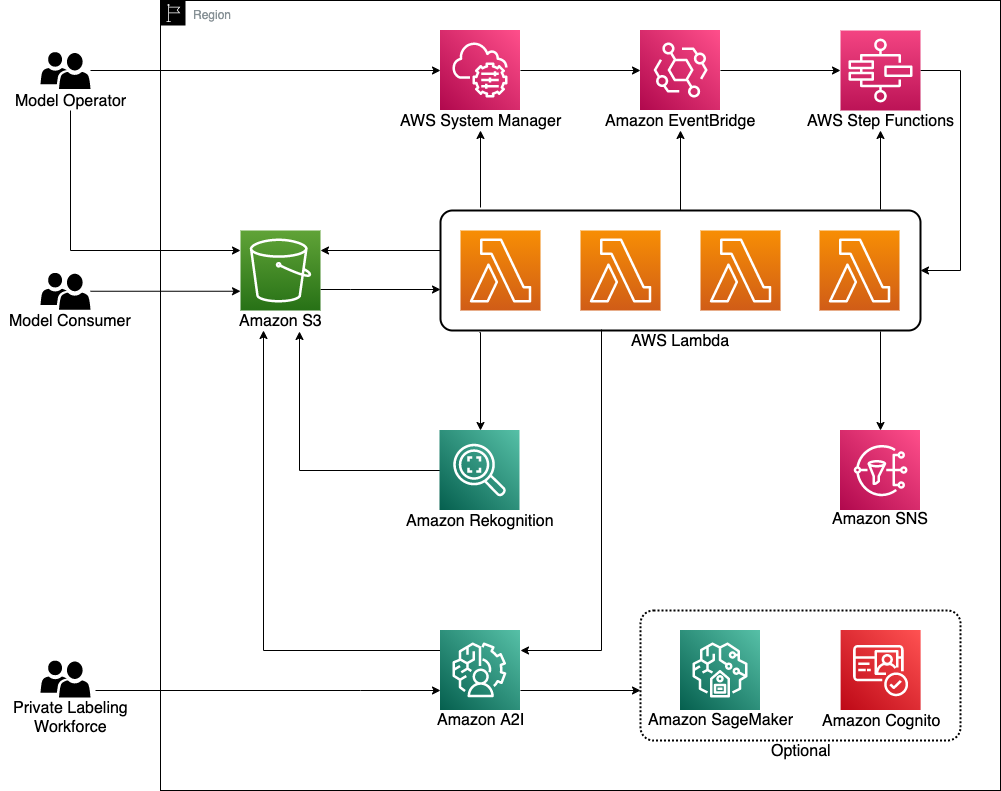
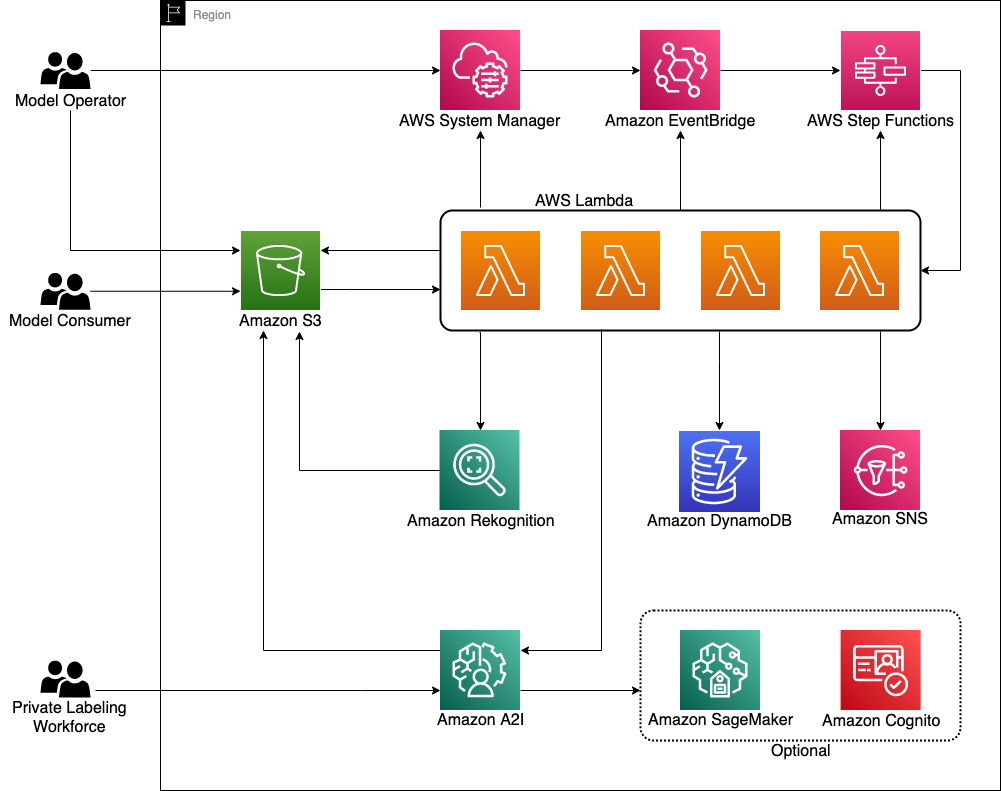
Add DynamoDB database to log all Rekongition and A2I events for offline analytics use

diff --git a/lambda/a2i_create_humanloop.py b/lambda/a2i_create_humanloop.py
@@ -1,14 +1,36 @@
 import json
 import os
 import boto3
-import uuid
-sns = boto3.client('sns')
-a2i = boto3.client('sagemaker-a2i-runtime')
 ssm = boto3.client('ssm')
-def get_parameter(parameter_name):
-    response = ssm.get_parameter(Name=parameter_name)
-    parameter_value = json.loads(response['Parameter']['Value'])
-    return parameter_value
+sns = boto3.client('sns')
+rekognition = boto3.client('rekognition')
+dynamodb = boto3.client('dynamodb')
+def get_parameters():
+    response = ssm.get_parameters_by_path(
+        Path=os.environ['parameter_store_path'],
+        Recursive=True
+    )
+    parameter_store = {}
+    for parameter in response['Parameters']:
+        parameter_name = (parameter['Name'].split('/'))[-1]
+        parameter_store[parameter_name] = parameter['Value']
+    return parameter_store
+def store_detection_results(dynamodb_table, detectlabel_request_id, detectlabel_date, s3_bucket_name, s3_object_key, s3_object_eTag, project_version, detected_label, confidence_level, minimum_confidence_level, A2I):
+    response = dynamodb.put_item(
+        TableName=dynamodb_table,
+        Item={
+            'DetectLabelRequestId': {'S':detectlabel_request_id},
+            'DetectLabelDate': {'S':detectlabel_date},
+            'S3Bucket': {'S':s3_bucket_name},
+            'S3ObjectKey': {'S':s3_object_key},
+            'S3ObjectEtag': {'S':s3_object_eTag},
+            'ProjectVersionArn': {'S':project_version},
+            'DectectedLabel': {'S':detected_label},
+            'DetectedConfidenceLevel': {'N':str(confidence_level)},
+            'MinimumConfidenceLevel': {'N':str(minimum_confidence_level)},
+            'A2IEnabled': {'BOOL':A2I}
+        }
+    )
 def publish_message(sns_subject, sns_message, topic_arn):
     response = sns.publish(
         TopicArn=topic_arn,
@@ -16,20 +38,35 @@ def publish_message(sns_subject, sns_message, topic_arn):
         Subject=sns_subject
     )
 def handler(event, context):
-    parameter_name = os.environ['parameter_store_path'] + 'For-System-Use-Only'
-    sys_vars = get_parameter(parameter_name)
-    response = a2i.start_human_loop(
-        HumanLoopName = str(uuid.uuid4()),
-        FlowDefinitionArn = sys_vars['flow_definition_arn'],
-        HumanLoopInput = {
-            'InputContent': json.dumps({
-                'initialValue': event['message']['CustomLabels'][0]['Confidence'],
-                'taskObject': 's3://'+event['message']['s3event']['s3']['bucket']['name']+'/'+event['message']['s3event']['s3']['object']['key']
-            })
-        }
+    parameter_store = get_parameters()
+    a2i = True if parameter_store['Enable-A2I-Workflow'].lower().capitalize() == 'True' else False
+    sys_vars = json.loads(parameter_store['For-System-Use-Only'])
+    project_version = sys_vars['rekognition_project_version_arn']
+    dynamodb_table = sys_vars['dynamodb_table']
+    minimum_confidence_level=parameter_store['Minimum-Label-Detection-Confidence']
+    s3_bucket_name=event['s3event']['s3']['bucket']['name']
+    s3_object_key=event['s3event']['s3']['object']['key']
+    s3_object_eTag=event['s3event']['s3']['object']['eTag']
+    s3_event_time=event['s3event']['eventTime']
+    response = rekognition.detect_custom_labels(
+        ProjectVersionArn=project_version,
+        Image={
+            'S3Object': {
+                'Bucket': s3_bucket_name,
+                'Name': s3_object_key
+            }
+        },
+        MaxResults=1,
+        MinConfidence=0
     )
-    response['s3event'] = event['message']['s3event']
-    publish_message('A2I Human Loop Initiated', json.dumps(response), sys_vars['sns-topic'])
+    confidence_level = response['CustomLabels'][0]['Confidence']
+    detected_label = response['CustomLabels'][0]['Name']
+    detectlabel_request_id = response['ResponseMetadata']['RequestId']
+    if confidence_level < float(parameter_store['Minimum-Label-Detection-Confidence']):
+        response['A2I'] = True if a2i else False
+    store_detection_results(dynamodb_table, detectlabel_request_id, s3_event_time, s3_bucket_name, s3_object_key, s3_object_eTag, project_version, detected_label, confidence_level, minimum_confidence_level, a2i)
+    publish_message('Rekgnition Custom Labels Detection Invoked', json.dumps(response), sys_vars['sns-topic'])
+    response['s3event'] = event['s3event']
     return {
         'message': response
     }

diff --git a/lambda/rekognition-detect-label.py b/lambda/rekognition-detect-label.py
@@ -1,10 +1,10 @@
 import json
 import os
 import boto3
-import uuid
 ssm = boto3.client('ssm')
 sns = boto3.client('sns')
 rekognition = boto3.client('rekognition')
+dynamodb = boto3.client('dynamodb')
 def get_parameters():
     response = ssm.get_parameters_by_path(
         Path=os.environ['parameter_store_path'],
@@ -15,6 +15,22 @@ def get_parameters():
         parameter_name = (parameter['Name'].split('/'))[-1]
         parameter_store[parameter_name] = parameter['Value']
     return parameter_store
+def store_detection_results(dynamodb_table, detectlabel_request_id, detectlabel_date, s3_bucket_name, s3_object_key, s3_object_eTag, project_version, detected_label, confidence_level, minimum_confidence_level, A2I):
+    response = dynamodb.put_item(
+        TableName=dynamodb_table,
+        Item={
+            'DetectLabelRequestId': {'S':detectlabel_request_id},
+            'DetectLabelDate': {'S':detectlabel_date},
+            'S3Bucket': {'S':s3_bucket_name},
+            'S3ObjectKey': {'S':s3_object_key},
+            'S3ObjectEtag': {'S':s3_object_eTag},
+            'ProjectVersionArn': {'S':project_version},
+            'DectectedLabel': {'S':detected_label},
+            'DetectedConfidenceLevel': {'N':str(confidence_level)},
+            'MinimumConfidenceLevel': {'N':str(minimum_confidence_level)},
+            'A2IEnabled': {'BOOL':A2I}
+        }
+    )
 def publish_message(sns_subject, sns_message, topic_arn):
     response = sns.publish(
         TopicArn=topic_arn,
@@ -23,25 +39,33 @@ def publish_message(sns_subject, sns_message, topic_arn):
     )
 def handler(event, context):
     parameter_store = get_parameters()
+    a2i = True if parameter_store['Enable-A2I-Workflow'].lower().capitalize() == 'True' else False
     sys_vars = json.loads(parameter_store['For-System-Use-Only'])
+    project_version = sys_vars['rekognition_project_version_arn']
+    dynamodb_table = sys_vars['dynamodb_table']
+    minimum_confidence_level=parameter_store['Minimum-Label-Detection-Confidence']
+    s3_bucket_name=event['s3event']['s3']['bucket']['name']
+    s3_object_key=event['s3event']['s3']['object']['key']
+    s3_object_eTag=event['s3event']['s3']['object']['eTag']
+    s3_event_time=event['s3event']['eventTime']
     response = rekognition.detect_custom_labels(
-        ProjectVersionArn=sys_vars['rekognition_project_version_arn'],
+        ProjectVersionArn=project_version,
         Image={
             'S3Object': {
-                'Bucket': event['s3event']['s3']['bucket']['name'],
-                'Name': event['s3event']['s3']['object']['key']
+                'Bucket': s3_bucket_name,
+                'Name': s3_object_key
             }
         },
         MaxResults=1,
         MinConfidence=0
     )
     confidence_level = response['CustomLabels'][0]['Confidence']
-    publish_message('Rekgnition Custom Labels Detection Invoked', json.dumps(response), sys_vars['sns-topic'])
+    detected_label = response['CustomLabels'][0]['Name']
+    detectlabel_request_id = response['ResponseMetadata']['RequestId']
     if confidence_level < float(parameter_store['Minimum-Label-Detection-Confidence']):
-        if parameter_store['Enable-A2I-Workflow'] in ['True', 'true', 'TRUE']:
-            response['A2I'] = True
-        else:
-            response['A2I'] = False
+        response['A2I'] = True if a2i else False
+    store_detection_results(dynamodb_table, detectlabel_request_id, s3_event_time, s3_bucket_name, s3_object_key, s3_object_eTag, project_version, detected_label, confidence_level, minimum_confidence_level, a2i)
+    publish_message('Rekgnition Custom Labels Detection Invoked', json.dumps(response), sys_vars['sns-topic'])
     response['s3event'] = event['s3event']
     return {
         'message': response

diff --git a/lambda/a2i-human-loop.py b/lambda/a2i-human-loop.py
@@ -4,18 +4,40 @@ import boto3
 s3 = boto3.client('s3')
 s3_resource = boto3.resource('s3')
 ssm = boto3.client('ssm')
+dynamodb = boto3.client('dynamodb')
 def get_parameter(parameter_name):
     response = ssm.get_parameter(Name=parameter_name)
     return json.loads(response['Parameter']['Value'])
+def append_human_results(dynamodb_table, detectlabel_request_id, label, new_key, submission_time):
+    response = dynamodb.update_item(
+        TableName=dynamodb_table,
+        Key={
+            'DetectLabelRequestId': {'S':detectlabel_request_id}
+        },
+        ExpressionAttributeNames={
+            '#HL':'HumanLabel',
+            '#S3':'CopiedS3ObjectKey',
+            '#AT': 'HumanLableCompletedDate'
+        },
+        ExpressionAttributeValues={
+            ':h': {'S':label},
+            ':s': {'S':new_key},
+            ':a': {'S':submission_time}
+        },
+        UpdateExpression='SET #HL=:h, #S3=:s, #AT=:a'
+    )
 def handler(event, context):
     parameter_name = os.environ['parameter_store_path'] + 'For-System-Use-Only'
     sys_vars = get_parameter(parameter_name)
+    dynamodb_table = sys_vars['dynamodb_table']
     bucket = event['s3event']['s3']['bucket']['name']
     key = event['s3event']['s3']['object']['key']
     response = s3.get_object(Bucket = bucket, Key = key)
     response = json.loads(response['Body'].read())
+    new_key=''
     if len(response['humanAnswers']) != 0:
         label = response['humanAnswers'][0]['answerContent']['crowd-image-classifier']['label']
+        submission_time = response['humanAnswers'][0]['submissionTime']
         if label != 'None of the Above':
             taskObject = response['inputContent']['taskObject']
             bucket, key = taskObject.replace("s3://", "").split("/", 1)
@@ -23,6 +45,8 @@ def handler(event, context):
             image_name = 'humanLoopName-' + response['humanLoopName'] + '-' + taskObject.split('/')[-1]
             new_key = 'images_labeled_by_folder/' + label + '/' + image_name
             s3_resource.meta.client.copy(copy_source, sys_vars['s3_bucket'], new_key)
+    detectlabel_request_id=response['inputContent']['detectLabelRequestId']
+    append_human_results(dynamodb_table, detectlabel_request_id, label, new_key, submission_time)
     response['s3event'] = event['s3event']
     return {
         'message': response

diff --git a/README.md b/README.md
@@ -50,6 +50,8 @@ We use Parameter Store in two different ways. Firstly, we provide a set of seven
 
 We use two EventBridge rules to initiate Step Functions state machine runs. The first rule is based on a Systems Manager event pattern. The Systems Manager rule is triggered by changes to the Parameter Store and initiates the state machine to invoke a Lambda function to apply changes to the impacted resources. The second rule is a schedule rule. The schedule rule is triggered periodically to initiate the state machine to invoke a Lambda function to check for new model training.
 
+We use an [Amazon DynamoDB](https://aws.amazon.com/dynamodb/) NoSQL database to log all Rekognition and A2I events and results for performance analysis and model drift detection. Although we did NOT include an analytics feature in this example,  you can quickly deploy [Amazon QuickSight](https://aws.amazon.com/quicksight/) with the DynamoDB table as your source to visualize the performance of your model over time.
+
 We use a Step Functions state machine to orchestrate the ML workflow. The state machine initiates different processes based on events received from EventBridge and responses from Lambda. In addition, the state machine uses an internal process such as Wait to wait for model training and deployment to complete and Choice to evaluate for next tasks.
 
 We use an S3 bucket and a set of predefined folders to store training and inference images and model artifacts. Each folder has a dedicated purpose. The model operator uploads new images to the folder images_labeled_by_folder for training, and the model consumer uploads inference images to the folder images_for_detection for custom label detection.
@@ -57,7 +59,7 @@ We use an S3 bucket and a set of predefined folders to store training and infere
 We use three different sets of Lambda functions:
 
 - The first set consists of two Lambda functions that build the Rekognition Custom Labels project and Amazon A2I human flow definition. These two Lambda functions are only used initially as part of the CloudFormation stack deployment process.
-- The second set of Lambda functions are invoked by the state machine to run Amazon Rekognition and Amazon A2I APIs, create a manifest file for training, collect labeled images for training, and manage system resources.
+- The second set of Lambda functions are invoked by the state machine to run Amazon Rekognition, A2I & DynamoDB APIs, create a manifest file for training, collect labeled images for training, and manage system resources.
 - The last set is a single Lambda function to redirect S3 PutObject events to the state machine.
 
 We use [Amazon Simple Notification Service](https://aws.amazon.com/sns/) (Amazon SNS) as a communication mechanism to alert the model operator and model consumer of relevant model training and detection events. All SNS messages are published by the corresponding Lambda functions.
